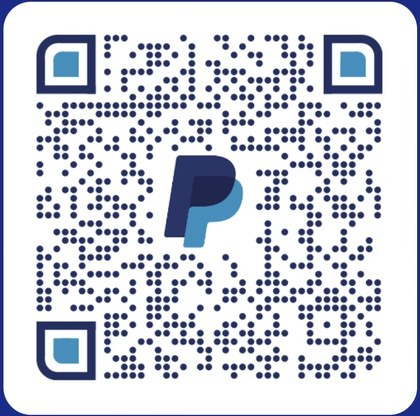
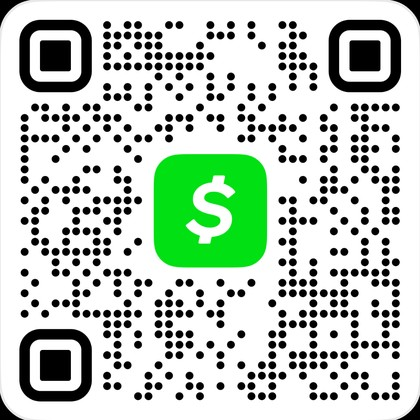
Cash App tips, hands that fit small screens, calmer table redraws
- replace PayPal with Cash App link and QR (cropped to the code only)
- opening-hand fan, sample hands and table hand measure the screen and overlap to fit
- table reuses card elements instead of rebuilding them, log scrolls only itself,
  and new-card effects are gentler: no more flashing between turns
- phone table order: stats, battlefield and hand, then piles and log

Claude-Session: https://claude.ai/code/session_01K5kL4WeZFox6QLJp181xit

diff --git a/goldfish/static/app.js b/goldfish/static/app.js
@@ -17,6 +17,7 @@
     $$('.tab').forEach(b => b.classList.toggle('active', b.dataset.tab === t));
     $$('.panel').forEach(p => p.classList.toggle('active', p.id === 'tab-' + t));
     if (t === 'hands' && S.deck) renderOpenLandsChart();
+    requestAnimationFrame(refit);
     if (t === 'table' && S.deck && !S.game) newTableGame();
     if (t === 'sim' && S.sim) renderSim();
     if (t === 'odds' && S.deck) renderOdds();
@@ -65,7 +66,7 @@
       if (o.tag) e.appendChild(h('span', 'tag', esc(o.tag)));
     }
     if (src) {
-      const img = new Image(); img.loading = 'lazy'; img.alt = card.name; img.src = src;
+      const img = new Image(); img.loading = o.eager ? 'eager' : 'lazy'; img.alt = card.name; img.src = src;
       img.onerror = () => {
         const alt = card.remote_images && card.remote_images[o.face || 0];
         if (alt && img.src !== alt && !img.dataset.tried) { img.dataset.tried = 1; img.src = alt; } else fb();
@@ -259,7 +260,7 @@
   $('#deckText').addEventListener('input', () => localStorage.setItem('gf_last', $('#deckText').value));
 
   // ======================= opening hands =======================
-  let H = null;
+  let H = null, fanLayout = null;
   const rseed = () => (Math.random() * 2 ** 32) >>> 0;
   $('#drawHand').addEventListener('click', () => { if (!need()) return; H = { g: G.newGame(S.deck, opts(), rseed()), mulls: 0 }; dealHand(); });
   $('#mullHand').addEventListener('click', () => {
@@ -286,15 +287,26 @@
     const stage = $('#handStage'); stage.innerHTML = '';
     const fan = h('div', 'fan'); stage.appendChild(fan);
     const n = g.hand.length;
-    g.hand.forEach((inst, i) => {
-      const e = cardEl(inst.card, { tag: H.bottom.includes(inst) ? 'bottom' : null });
-      const mid = (n - 1) / 2, ang = (i - mid) * 6, dx = (i - mid) * 108;
-      e.style.transform = `translateX(calc(-50% + ${dx}px)) rotate(${ang}deg)`;
+    const els = g.hand.map(inst => {
+      const e = cardEl(inst.card, { tag: H.bottom.includes(inst) ? 'bottom' : null, eager: true });
       if (H.bottom.includes(inst)) e.style.filter = 'grayscale(.8) brightness(.55)';
-      e.animate([{ transform: `translateX(-50%) translateY(260px) rotate(0) scale(.6)`, opacity: 0 }, { transform: e.style.transform, opacity: 1 }],
-        { duration: 450, delay: i * 70, easing: 'cubic-bezier(.2,.9,.3,1.1)', fill: 'backwards' });
       fan.appendChild(e);
+      return e;
     });
+    // spread the cards so the whole hand always fits the screen
+    fanLayout = () => {
+      const W = stage.clientWidth, cw = els[0] ? els[0].offsetWidth : 150, ch = els[0] ? els[0].offsetHeight : 210;
+      const mid = (n - 1) / 2, rad = Math.PI / 180;
+      // widest the fan gets for a given spacing: card centre + the sideways swing of the tilt (pivot sits below the card) + half the tilted card
+      const extent = (step, tilt) => { const th = mid * tilt * rad; return mid * step + 0.9 * ch * Math.sin(th) + (cw * Math.cos(th) + ch * Math.sin(th)) / 2; };
+      let step = 108, tilt = 6;
+      for (; step > 12; step -= 2) { tilt = 6 * Math.max(0.35, step / 108); if (n < 2 || extent(step, tilt) <= W / 2 - 6) break; }
+      if (n < 2) step = 0;
+      els.forEach((e, i) => { e.style.transform = `translateX(calc(-50% + ${(i - mid) * step}px)) rotate(${(i - mid) * tilt}deg)`; });
+    };
+    fanLayout();
+    els.forEach((e, i) => e.animate([{ transform: 'translateX(-50%) translateY(260px) rotate(0) scale(.6)', opacity: 0 }, { transform: e.style.transform, opacity: 1 }],
+      { duration: 450, delay: i * 70, easing: 'cubic-bezier(.2,.9,.3,1.1)', fill: 'backwards' }));
     const kept = g.hand.filter(c => !H.bottom.includes(c));
     const lands = G.landCount(kept);
     const ok = G.keepable(g.hand, o);
@@ -331,6 +343,7 @@
       box.style.animation = `fadein .3s ease ${i * 50}ms both`;
       grid.appendChild(box);
     }
+    grid.querySelectorAll('.cards').forEach(c => fitRow(c, 0.28));
   });
 
   function renderOpenLandsChart() {
@@ -402,7 +415,7 @@
     startTableGame(g);
   }
   function startTableGame(g) {
-    S.game = g; S.undo = []; g.turnDone = false;
+    S.game = g; S.undo = []; g.turnDone = false; elCache.clear();
     $('#gameLog').innerHTML = '';
     log(`Kept ${g.hand.length} cards${g.mulligans ? ` after ${g.mulligans} mulligan${g.mulligans > 1 ? 's' : ''}` : ''}: ${g.hand.map(c => esc(c.card.name)).join(', ')}`);
     beginTurnUI();
@@ -503,7 +516,7 @@
   }
   function killBanner(t, cmdr) { const b = h('div', 'kill-banner', `🐟 Goldfish defeated · turn ${t}${cmdr ? '<br><small>21 commander damage</small>' : ''}`); document.body.appendChild(b); setTimeout(() => b.remove(), 2100); }
 
-  function log(html) { const li = h('li', '', html); $('#gameLog').appendChild(li); li.scrollIntoView({ block: 'nearest' }); }
+  function log(html) { const ol = $('#gameLog'); ol.appendChild(h('li', '', html)); const box = ol.parentElement; box.scrollTop = box.scrollHeight; }
   function logTurn(t) { $('#gameLog').appendChild(h('li', 'turn', `Turn ${t}`)); }
 
   // ---- undo via snapshots ----
@@ -549,6 +562,26 @@
     if (!ev) { S.undo.pop(); el.classList.remove('shake'); void el.offsetWidth; el.classList.add('shake'); return toast(a.isAura ? 'You need a creature to enchant. Shift-click to cast anyway.' : 'Not enough mana. Shift-click to cast it anyway.'); }
     play(ev);
   }
+
+  // ---- fit a row of cards inside its container (overlap only as much as needed) ----
+  function fitRow(row, baseOverlap) {
+    if (!row) return;
+    const kids = Array.from(row.children).filter(k => k.classList && k.classList.contains('mtg'));
+    if (!kids.length) return;
+    const cs = getComputedStyle(row);
+    const avail = row.clientWidth - parseFloat(cs.paddingLeft || 0) - parseFloat(cs.paddingRight || 0);
+    const w = kids[0].offsetWidth; if (!w || avail <= 0) return;
+    const n = kids.length;
+    let overlap = w * baseOverlap;
+    if (n > 1 && w * n - overlap * (n - 1) > avail) overlap = Math.min(w * 0.84, (w * n - avail) / (n - 1));
+    kids.forEach((k, i) => { k.style.marginLeft = i ? (-overlap) + 'px' : '0px'; k.style.marginRight = '0px'; });
+  }
+  function refit() {
+    if (fanLayout) fanLayout();
+    fitRow($('#zHand'), 0.14);
+    $$('.mini-hand .cards').forEach(c => fitRow(c, 0.28));
+  }
+  window.addEventListener('resize', () => { clearTimeout(window._rz2); window._rz2 = setTimeout(refit, 120); });
 
   // ---- touch: long-press and card viewer ----
   const lightbox = $('#lightbox');
@@ -654,18 +687,33 @@
     ctx.style.left = Math.max(8, Math.min(cx, innerWidth - ctx.offsetWidth - 8)) + 'px'; ctx.style.top = Math.max(8, Math.min(cy, innerHeight - ctx.offsetHeight - 10)) + 'px';
   }
 
-  // ---- rendering with FLIP animation ----
+  // ---- rendering: card elements are kept and moved, never rebuilt (rebuilding re-decodes images = flicker) ----
+  const elCache = new Map();
+  function tableEl(card, iid, face, used) {
+    const key = iid + ':' + (face || 0);
+    used.add(key);
+    let e = elCache.get(key);
+    if (!e) { e = cardEl(card, { iid, face, eager: true }); elCache.set(key, e); }
+    return e;
+  }
+  function clearState(e) {
+    e.style.marginLeft = ''; e.style.marginRight = '';
+    e.querySelectorAll('.pt,.ctr,.tag').forEach(x => x.remove());
+    e.classList.remove('tapped', 'token', 'sick', 'castable');
+  }
+
   function render(first) {
     const g = S.game; if (!g) return;
     const before = new Map();
     $$('.table [data-iid]').forEach(e => before.set(e.dataset.iid, e.getBoundingClientRect()));
     const libRect = $('#zLibrary .card-back').getBoundingClientRect();
+    const used = new Set();
 
     const rows = { zCreatures: [], zOther: [], zLands: [] };
     g.battlefield.forEach(p => { rows[p.asLand ? 'zLands' : G.isCreaturePerm(p) ? 'zCreatures' : 'zOther'].push(p); });
     for (const [id, list] of Object.entries(rows)) {
       const row = document.getElementById(id);
-      row.querySelectorAll('.mtg, .stackgroup').forEach(x => x.remove());
+      const label = row.querySelector('.row-label');
       // stack identical permanents (lands, and tokens in the same state) so big boards stay readable
       const groups = new Map();
       list.forEach(p => {
@@ -673,28 +721,38 @@
         const k = stackable ? p.card.uid + '|' + (p.tapped ? 't' : 'u') + (p.mdfc ? 'm' : '') + '|' + (p.sick ? 's' : '') + '|' + (p.counters || 0) : 'solo' + p.iid;
         if (!groups.has(k)) groups.set(k, []); groups.get(k).push(p);
       });
+      const nodes = [label];
       for (const ps of groups.values()) {
         const sg = h('div', 'stackgroup');
-        ps.forEach(p => sg.appendChild(permEl(p)));
+        ps.forEach(p => sg.appendChild(permEl(p, used)));
         if (ps.length > 4) sg.appendChild(h('span', 'stack-count', '×' + ps.length));
-        row.appendChild(sg);
+        nodes.push(sg);
       }
+      row.replaceChildren(...nodes);
     }
-    const hand = $('#zHand'); hand.innerHTML = '';
+    const hand = $('#zHand');
     const units = G.allUnits(g);
-    g.hand.forEach(i => {
-      const e = cardEl(i.card, { iid: i.iid });
+    hand.replaceChildren(...g.hand.map(i => {
+      const e = tableEl(i.card, i.iid, 0, used);
+      clearState(e);
       if (!i.card.a.isLand && G.canPay(G.effectiveCost(g, i), units)) e.classList.add('castable');
-      if ((i.card.a.isLand) && G.canPlayLand(g)) e.classList.add('castable');
-      hand.appendChild(e);
-    });
-    const pile = (sel, arr, cnt) => { const c = document.querySelector(sel + ' .pile-cards'); c.innerHTML = ''; arr.forEach(i => c.appendChild(cardEl(i.card, { iid: i.iid }))); if (cnt) $(cnt).textContent = arr.length; };
+      if (i.card.a.isLand && G.canPlayLand(g)) e.classList.add('castable');
+      return e;
+    }));
+    fitRow(hand, 0.14);
+    const pile = (sel, arr, cnt) => {
+      const c = document.querySelector(sel + ' .pile-cards');
+      c.replaceChildren(...arr.map(i => { const e = tableEl(i.card, i.iid, 0, used); clearState(e); return e; }));
+      if (cnt) $(cnt).textContent = arr.length;
+    };
     pile('#zGrave', g.graveyard, '#cGrave'); pile('#zExile', g.exile, '#cExile'); pile('#zCommand', g.command);
+    for (const k of Array.from(elCache.keys())) if (!used.has(k)) elCache.delete(k);
+
     $('#cLibrary').textContent = g.library.length;
     $('#hTurn').textContent = g.turn;
     $('#hLife').textContent = Math.max(0, g.opts.oppLife - g.damage);
     $('#hSpent').textContent = g.manaSpent + (g.spentThisTurn || 0);
-    const cd = Object.entries(g.cmdrDamage || {}).map(([iid, v]) => v);
+    const cd = Object.values(g.cmdrDamage || {});
     $('#hCmdr').textContent = cd.length ? Math.max(...cd) + ' / 21' : '0 / 21';
     $('#hPower').textContent = g.battlefield.reduce((s, p) => s + Math.max(0, G.powerOf(g, p)), 0);
     const mp = $('#hMana'); mp.innerHTML = '';
@@ -702,25 +760,26 @@
     if (!units.length) mp.innerHTML = '<span class="hint">none</span>';
 
     if (first) return;
+    const dur = $('#tFast').checked ? 200 : 420;
     $$('.table [data-iid]').forEach(e => {
       const r = e.getBoundingClientRect();
       const old = before.get(e.dataset.iid);
       const from = old || libRect;
       const dx = from.left + from.width / 2 - (r.left + r.width / 2), dy = from.top + from.height / 2 - (r.top + r.height / 2);
       if (Math.abs(dx) < 1 && Math.abs(dy) < 1) return;
-      const s = from.width / Math.max(1, r.width);
-      const dur = $('#tFast').checked ? 220 : 480;
-      const isNewToken = !old && S.game.battlefield.some(p => String(p.iid) === e.dataset.iid && p.token);
-      if (isNewToken) { e.animate([{ scale: '0.2', opacity: 0, filter: 'brightness(3)' }, { scale: '1', opacity: 1, filter: 'none' }], { duration: dur + 150, easing: 'cubic-bezier(.2,.9,.3,1.3)' }); return; }
-      e.animate([{ translate: `${dx}px ${dy}px`, scale: String(old ? s : 0.8), opacity: old ? 1 : 0.2 }, { translate: '0 0', scale: '1', opacity: 1 }], { duration: dur, easing: 'cubic-bezier(.2,.8,.2,1)' });
-      if (!old) e.classList.add('flip-in');
+      const sc = from.width / Math.max(1, r.width);
+      if (!old && S.game.battlefield.some(p => String(p.iid) === e.dataset.iid && p.token)) {
+        e.animate([{ scale: '0.6', opacity: 0 }, { scale: '1', opacity: 1 }], { duration: dur, easing: 'ease-out' }); return;
+      }
+      e.animate([{ translate: `${dx}px ${dy}px`, scale: String(old ? sc : 0.85), opacity: old ? 1 : 0.5 }, { translate: '0 0', scale: '1', opacity: 1 }], { duration: dur, easing: 'cubic-bezier(.2,.8,.2,1)' });
     });
   }
-  function permEl(p) {
+  function permEl(p, used) {
     const g = S.game;
-    const e = cardEl(p.card, { iid: p.iid, face: p.mdfc ? 1 : 0 });
-    if (p.tapped) e.classList.add('tapped');
-    if (p.token) e.classList.add('token');
+    const e = tableEl(p.card, p.iid, p.mdfc ? 1 : 0, used);
+    clearState(e);
+    e.classList.toggle('tapped', !!p.tapped);
+    e.classList.toggle('token', !!p.token);
     if (G.isCreaturePerm(p)) {
       if (p.sick && !G.hasKw(g, p, 'haste')) e.classList.add('sick');
       const pw = G.powerOf(g, p), tg = G.toughnessOf(g, p);

diff --git a/goldfish/static/index.html b/goldfish/static/index.html
@@ -197,8 +197,8 @@
 <footer class="site-footer">
   <p><b>Visual Goldfish Calculator</b> is unofficial Fan Content permitted under the Fan Content Policy. Not approved/endorsed by Wizards. Portions of the materials used are property of Wizards of the Coast. &copy;Wizards of the Coast LLC.</p>
   <div class="tip">
-    <a href="https://www.paypal.com/qrcodes/managed/d51f1f39-d935-47e9-99ee-9aa861bf254b?utm_source=hawk_quick_link" target="_blank" rel="noopener" class="tip-qr" title="Tip the developer on PayPal"><img src="donate-qr.jpg" alt="PayPal QR code for tips" width="96" height="95" loading="lazy"></a>
-    <p>Card data and images are provided by <a href="https://scryfall.com" target="_blank" rel="noopener">Scryfall</a> and are not endorsed by Scryfall. Free to use, with no sign-up. If it's useful, you can <a class="donate" href="https://www.paypal.com/qrcodes/managed/d51f1f39-d935-47e9-99ee-9aa861bf254b?utm_source=hawk_quick_link" target="_blank" rel="noopener">tip the developer on PayPal</a>, or scan the code. Totally optional.</p>
+    <a href="https://cash.app/$SWDMark" target="_blank" rel="noopener" class="tip-qr" title="Tip the developer on Cash App"><img src="donate-qr.jpg" alt="Cash App QR code for tips" width="96" height="96" loading="lazy"></a>
+    <p>Card data and images are provided by <a href="https://scryfall.com" target="_blank" rel="noopener">Scryfall</a> and are not endorsed by Scryfall. Free to use, with no sign-up. If it's useful, you can <a class="donate" href="https://cash.app/$SWDMark" target="_blank" rel="noopener">tip the developer on Cash App ($SWDMark)</a>, or scan the code. Totally optional.</p>
   </div>
 </footer>
 

diff --git a/goldfish/static/styles.css b/goldfish/static/styles.css
@@ -376,3 +376,24 @@ html, body { max-width: 100%; overflow-x: hidden; }
 .site-footer .tip { display: flex; gap: 14px; align-items: flex-start; }
 .site-footer .tip-qr { flex: none; display: block; border-radius: 10px; overflow: hidden; line-height: 0; }
 .site-footer .tip-qr img { width: 96px; height: auto; display: block; }
+
+/* ---------- calmer motion ---------- */
+@keyframes flipin { from { opacity: .4; } to { opacity: 1; } }
+.bf-row .mtg { transition: transform .3s ease, filter .3s ease; }
+.hand-zone { justify-content: center; }
+.hand-zone .mtg { margin: 0; }
+.mini-hand .cards { justify-content: center; }
+.mini-hand .cards .mtg { margin-right: 0; }
+
+/* ---------- phone table: stats, then battlefield + hand, then piles, then log ---------- */
+@media (max-width: 900px) {
+  .table { grid-template-columns: repeat(2, minmax(0, 1fr)); }
+  .table-side { display: contents; }
+  .hud, .table-main, .table-log { grid-column: 1 / -1; }
+  .hud { order: 0; padding: 8px 10px; gap: 6px; }
+  .hud-item .big { font-size: 20px; }
+  .table-main { order: 1; }
+  .zone-pile { order: 2; }
+  .table-log { order: 3; }
+  #zLibrary .card-back { width: 54px; margin-bottom: 2px; }
+}

diff --git a/README.md b/README.md
@@ -85,4 +85,4 @@ The goldfish never blocks, never removes anything, and never interacts.
 
 *Visual Goldfish Calculator is unofficial Fan Content permitted under the Fan Content Policy. Not approved/endorsed by Wizards. Portions of the materials used are property of Wizards of the Coast. (c) Wizards of the Coast LLC.*
 
-Card data and images are provided by [Scryfall](https://scryfall.com) and are not endorsed by Scryfall. Following Scryfall's and Wizards' policies, this app is **free to use with no sign-up or paywall**, card images are shown whole and unaltered, and the hosted version fetches everything from Scryfall directly instead of re-hosting it. Optional tips are welcome at <https://www.paypal.com/qrcodes/managed/d51f1f39-d935-47e9-99ee-9aa861bf254b?utm_source=hawk_quick_link> and never unlock anything.
+Card data and images are provided by [Scryfall](https://scryfall.com) and are not endorsed by Scryfall. Following Scryfall's and Wizards' policies, this app is **free to use with no sign-up or paywall**, card images are shown whole and unaltered, and the hosted version fetches everything from Scryfall directly instead of re-hosting it. Optional tips are welcome on Cash App at <https://cash.app/$SWDMark> and never unlock anything.
